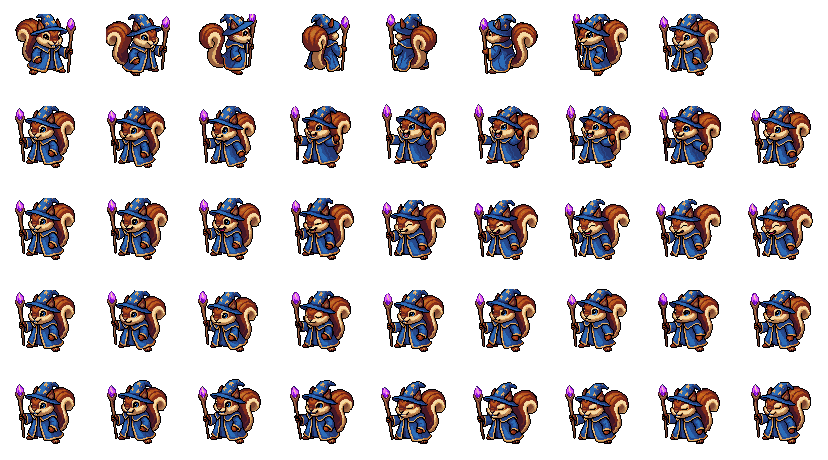
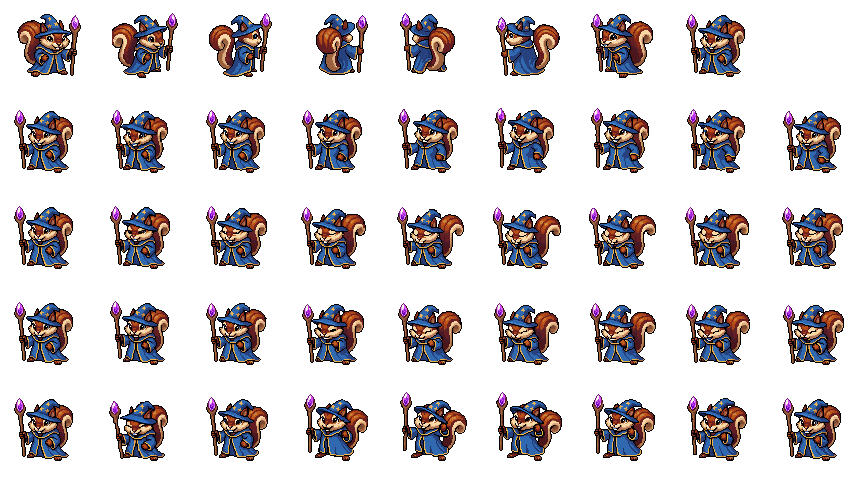
fix(pet): maga adulta regenerada a 80×80, cristal y sombrero dentro del lienzo (#1070)
El estado adult/wizard (37ca9eb5) venía de la exploración a 64×64 y la punta del sombrero y el
cristal del bastón tocaban la fila 0 del lienzo, cortados en plano (8-17 px opacos en la fila
superior de cada rotación). Estado nuevo 94df862d con el brief literal de la canónica §5 y
override 80×80: 0 px en los bordes en las 44 celdas, margen superior de 5-8 px dentro del lienzo
y la fila más alta de 1 px de ancho (punta, no corte). Misma cara que la base y que las otras
clases adultas. Celda exportada 96 (antes 92).

28 gens (3 499 -> 3 471): el estado cobró 20 y cada animación v3 sobre lienzo de 80 cobró 2, no
1 (anotado en la canónica §2). El estado viejo se conserva en PixelLab por si hay que volver.
`sad` casi igual que `sleepy` (la cola no baja) ya pasaba con el estado viejo: #1076.

Claude-Session: https://claude.ai/code/session_01MAe5vgjS1WbkyRKC8pfRDf

diff --git a/src/lib/pet/sheets.gen.ts b/src/lib/pet/sheets.gen.ts
@@ -359,9 +359,9 @@ export const PET_SHEETS = {
       }
     },
     "wizard": {
-      "cell": 92,
-      "width": 828,
-      "height": 460,
+      "cell": 96,
+      "width": 864,
+      "height": 480,
       "columns": 9,
       "directions": [
         "south",
@@ -376,28 +376,28 @@ export const PET_SHEETS = {
       "rotationsRow": 0,
       "anims": {
         "idle": {
-          "row": 3,
+          "row": 1,
           "frames": 9
         },
         "sleepy": {
-          "row": 4,
-          "frames": 9
-        },
-        "sad": {
           "row": 2,
           "frames": 9
         },
+        "sad": {
+          "row": 3,
+          "frames": 9
+        },
         "joy": {
-          "row": 1,
+          "row": 4,
           "frames": 9
         }
       },
-      "hash": "ba2b4957f8",
+      "hash": "c12ff1bb19",
       "box": {
-        "x": 12,
-        "y": 11,
-        "w": 67,
-        "h": 65
+        "x": 13,
+        "y": 8,
+        "w": 70,
+        "h": 70
       }
     },
     "cleric": {
